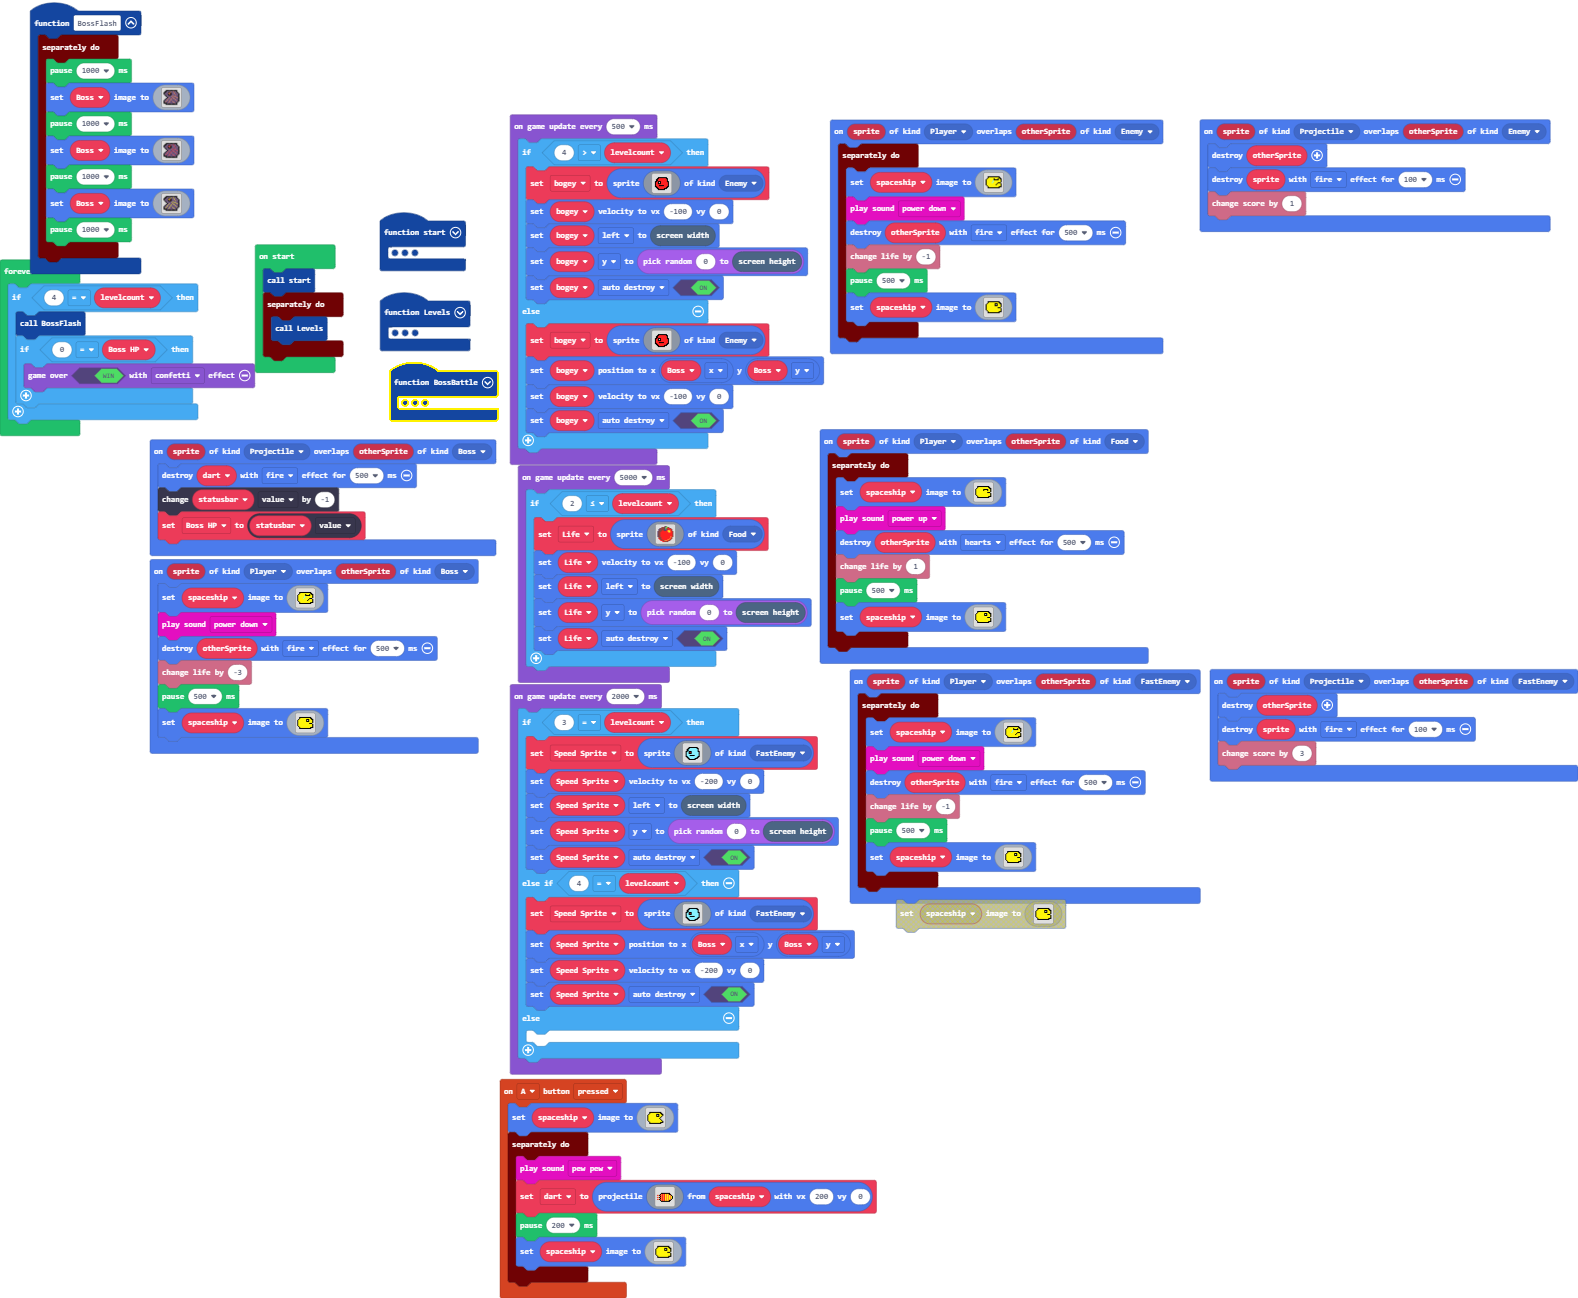
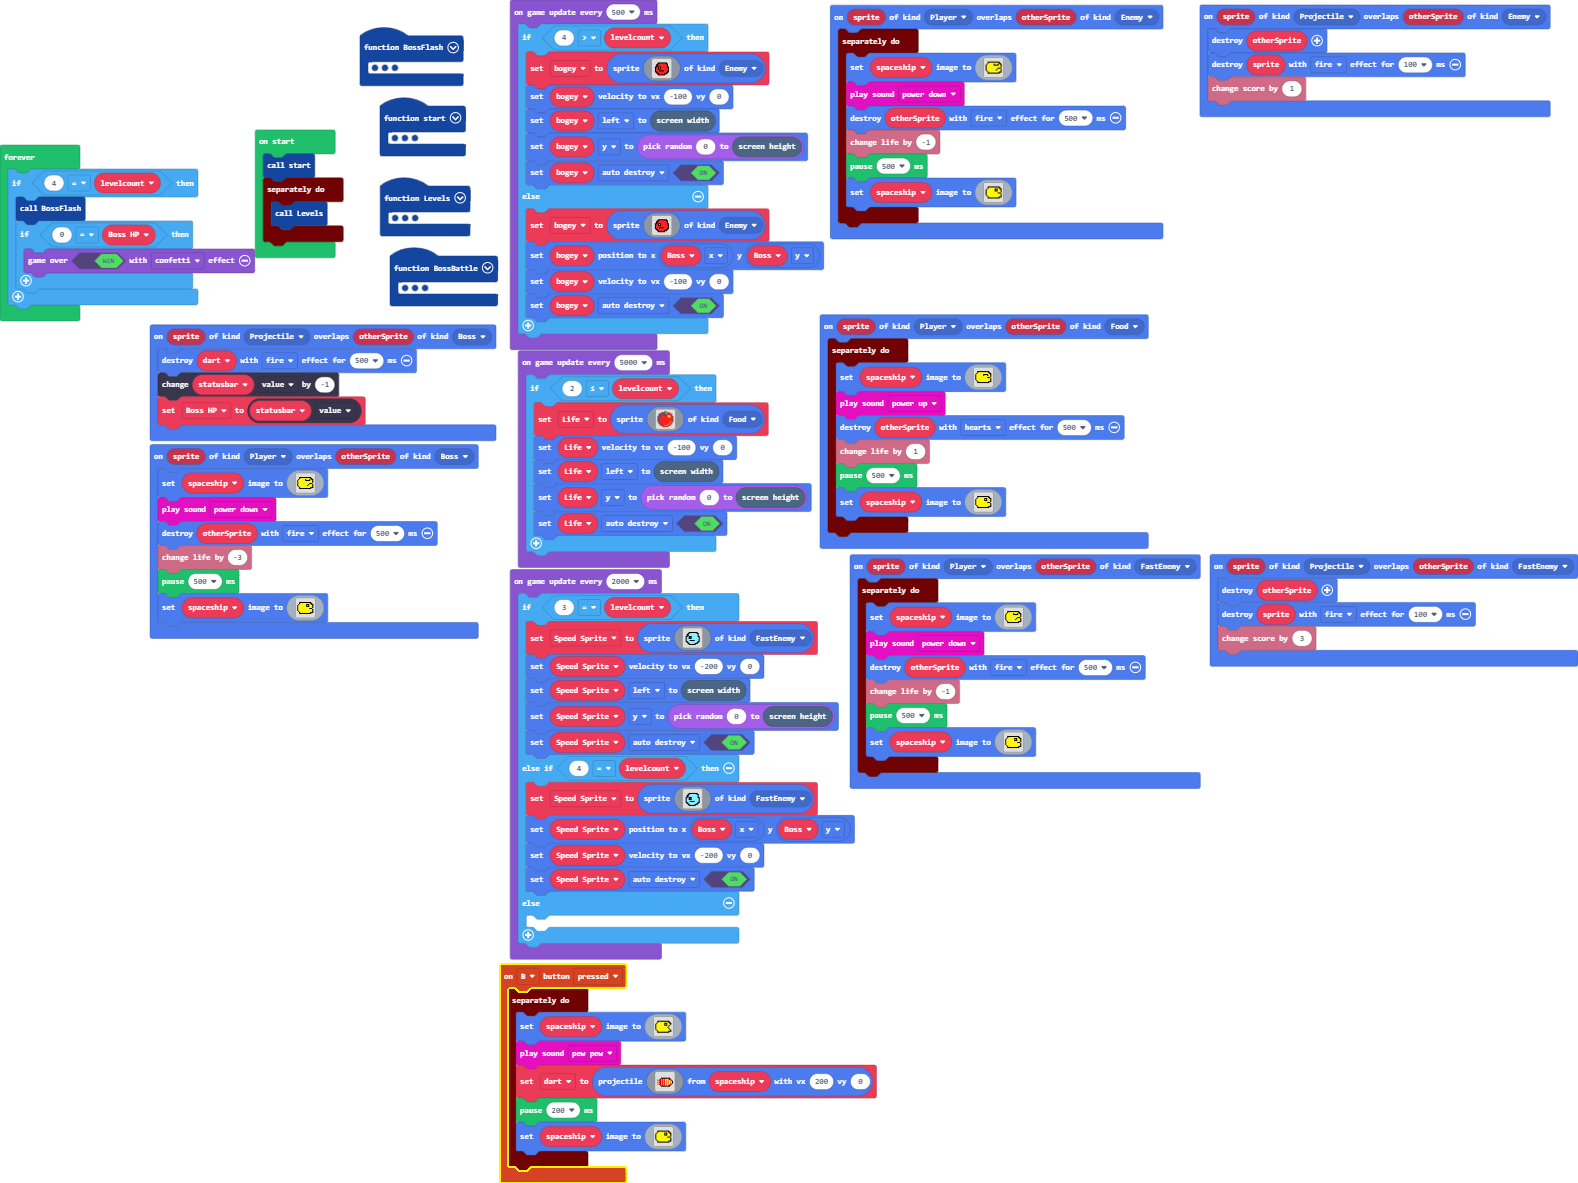
Changed Controls

diff --git a/main.ts b/main.ts
@@ -33,22 +33,22 @@ function Levels () {
     }
     BossBattle()
 }
-controller.A.onEvent(ControllerButtonEvent.Pressed, function () {
-    spaceship.setImage(img`
-        . . f f f f f f f f f f f f . . 
-        . . f 5 5 5 5 5 5 5 5 5 5 f f . 
-        . f 5 5 5 5 5 5 5 f f f 5 5 f f 
-        f 5 5 5 5 5 5 5 5 f 1 f 5 5 5 f 
-        f 5 5 5 5 5 5 5 5 f f f 5 5 f . 
-        f 5 5 5 5 5 5 5 5 5 5 5 5 f . . 
-        f 5 5 5 5 5 5 5 5 5 5 5 f . . . 
-        f 5 5 5 5 5 5 5 5 5 5 5 5 f . . 
-        f 5 5 5 5 5 5 5 5 5 5 5 5 5 f . 
-        . f 5 5 5 5 5 5 5 5 5 5 5 5 5 f 
-        . . f 5 5 5 5 5 5 5 5 5 5 f f f 
-        . . f f f f f f f f f f f f . . 
-        `)
+controller.B.onEvent(ControllerButtonEvent.Pressed, function () {
     timer.background(function () {
+        spaceship.setImage(img`
+            . . f f f f f f f f f f f f . . 
+            . . f 5 5 5 5 5 5 5 5 5 5 f f . 
+            . f 5 5 5 5 5 5 5 f f f 5 5 f f 
+            f 5 5 5 5 5 5 5 5 f 1 f 5 5 5 f 
+            f 5 5 5 5 5 5 5 5 f f f 5 5 f . 
+            f 5 5 5 5 5 5 5 5 5 5 5 5 f . . 
+            f 5 5 5 5 5 5 5 5 5 5 5 f . . . 
+            f 5 5 5 5 5 5 5 5 5 5 5 5 f . . 
+            f 5 5 5 5 5 5 5 5 5 5 5 5 5 f . 
+            . f 5 5 5 5 5 5 5 5 5 5 5 5 5 f 
+            . . f 5 5 5 5 5 5 5 5 5 5 f f f 
+            . . f f f f f f f f f f f f . . 
+            `)
         music.pewPew.play()
         dart = sprites.createProjectileFromSprite(img`
             . . . . . . . . . . . . . . . . 
